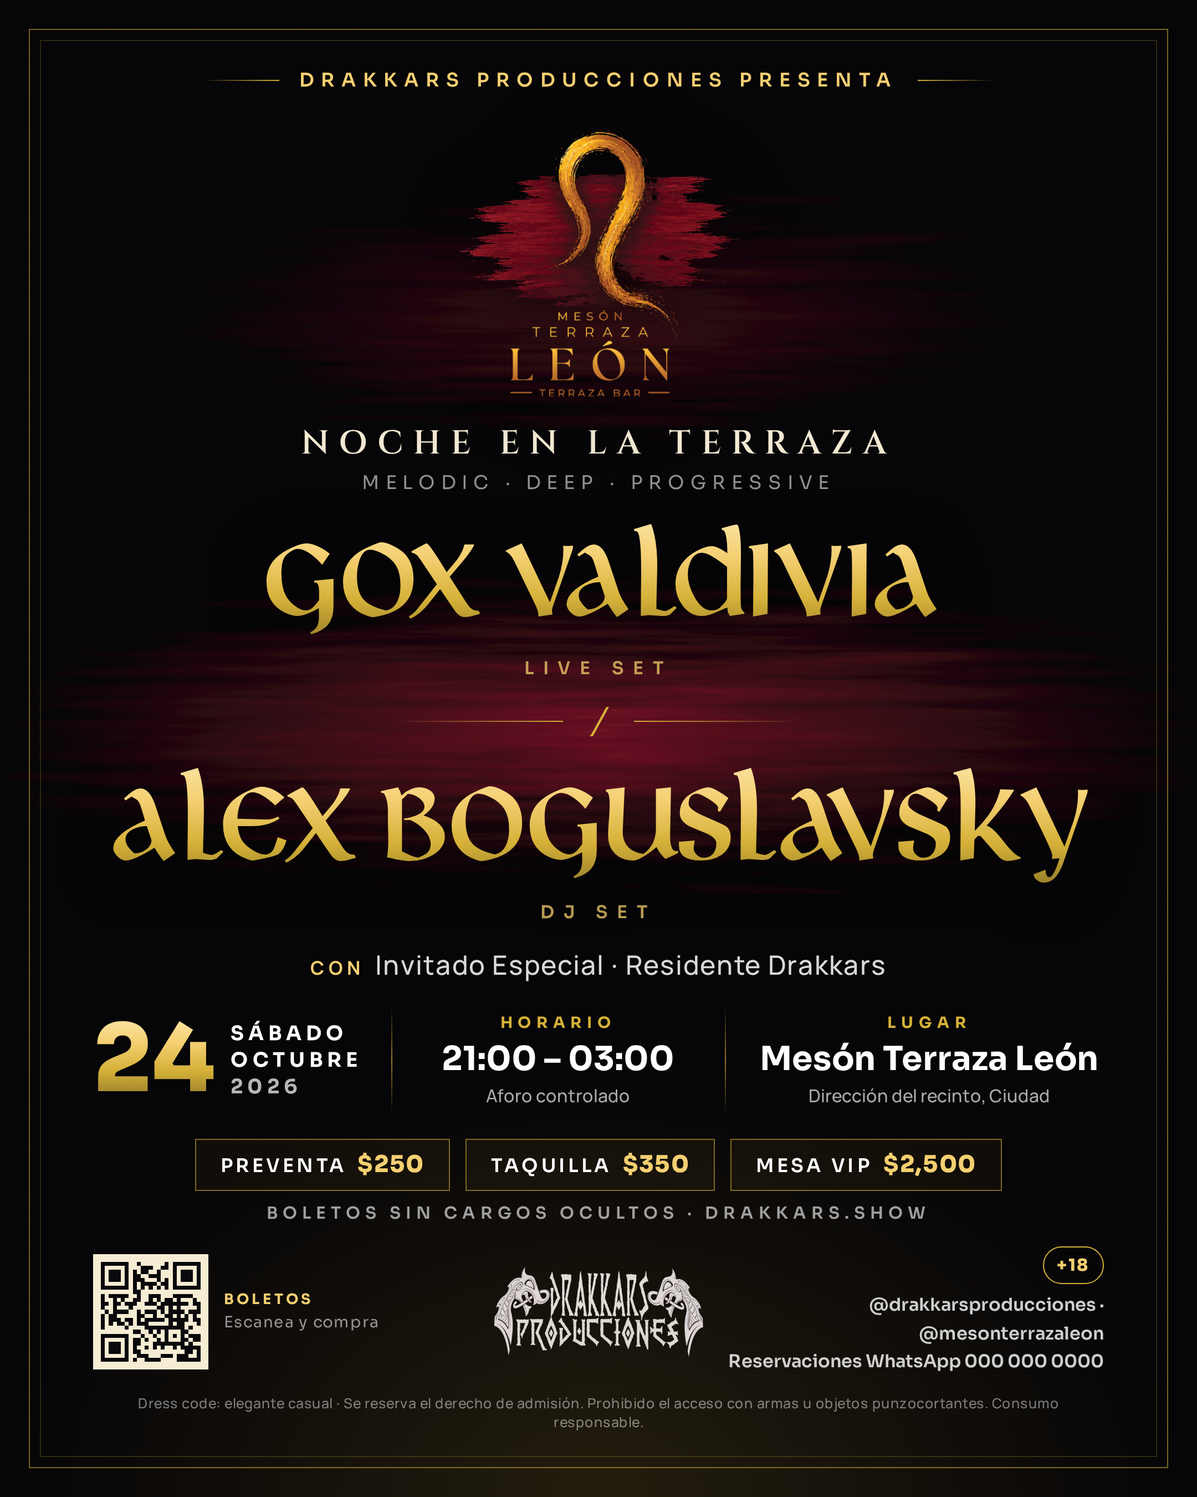
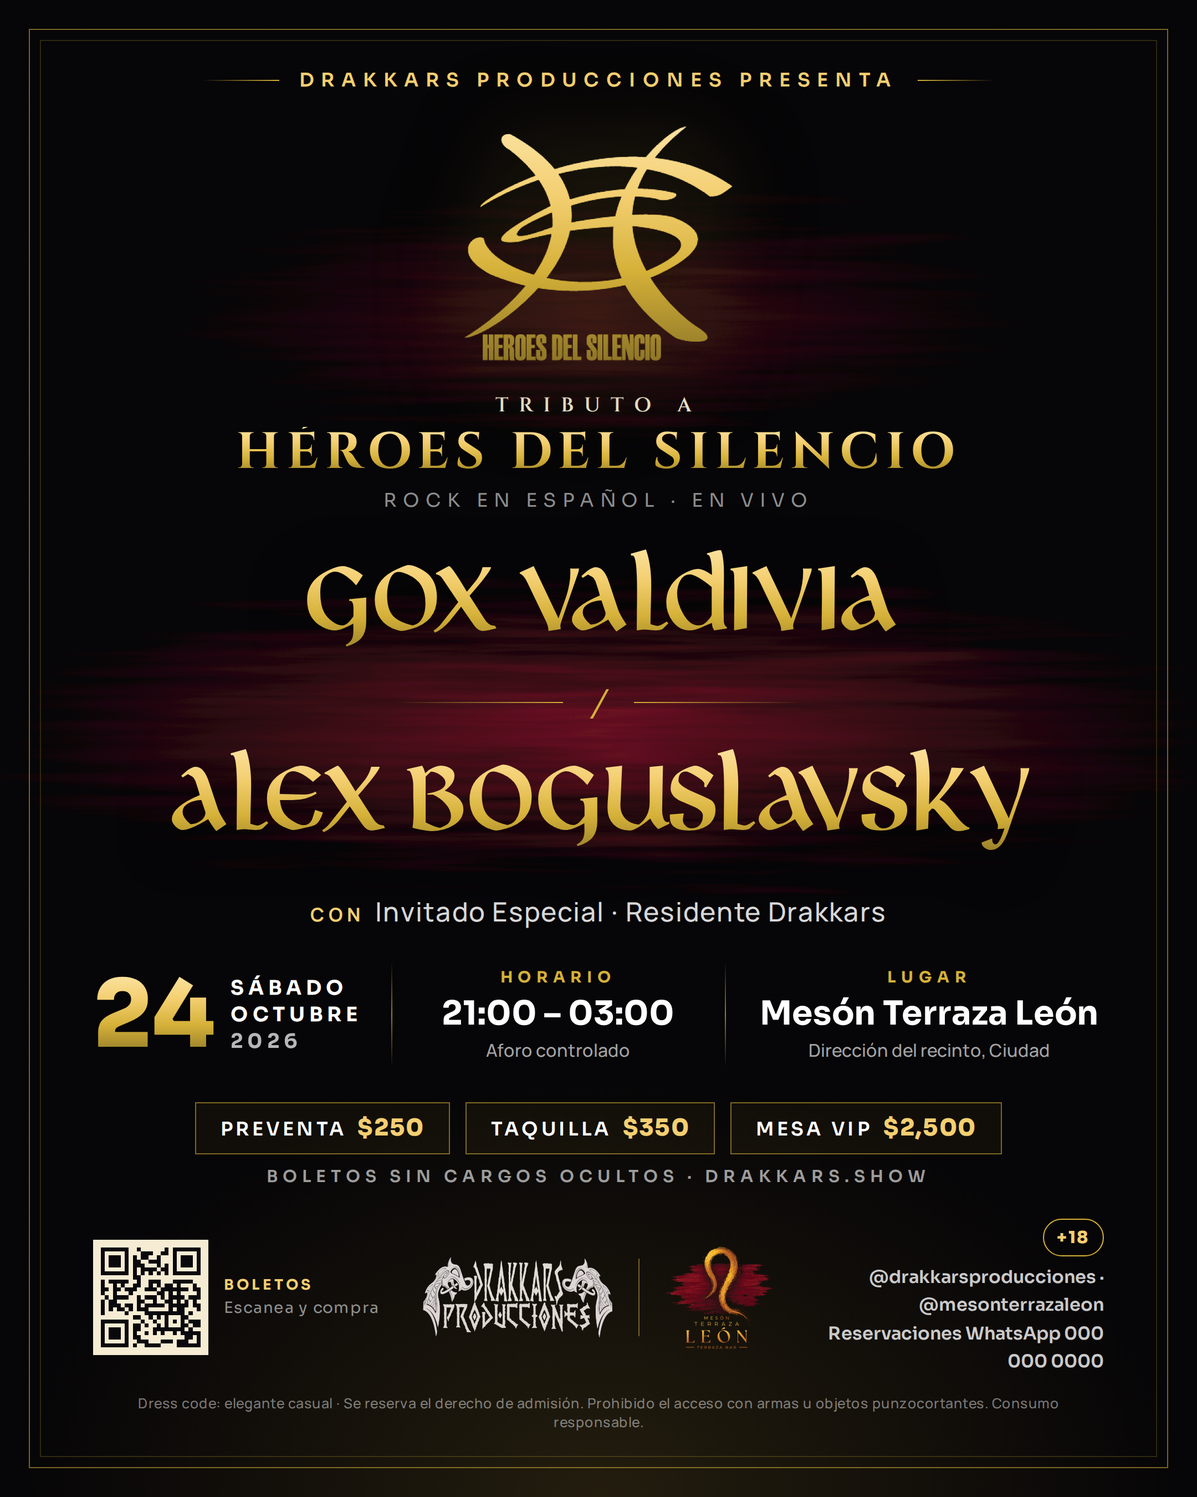
Flyers: add Tributo a Héroes del Silencio branding to all 5 designs
Adds kicker/title/eventLogo fields to event.js. The HdS logo is keyed
out of its baked-in checkerboard and painted in the site gold via canvas,
featured in every layout; Mesón logo moves to co-branding where needed.
Mockups re-rendered.

Claude-Session: https://claude.ai/code/session_01FHbxkynBZxSofdkjbFxcNF

diff --git a/flyers/flyer.html b/flyers/flyer.html
@@ -74,6 +74,8 @@
   .qr svg { display: block; width: 100%; height: 100%; }
   .muted { opacity: .7; }
   .hide { display: none !important; }
+  /* Logo del concepto (eventLogo), repintado con el degradado dorado en un canvas */
+  .mark { display: inline-block; vertical-align: middle; width: auto; }
 
   /* ===================================================== */
   /* 1 · ORO Y VINO — clásico centrado, negro + oro + vino */
@@ -89,8 +91,13 @@
   .v1 .presenter { display: flex; align-items: center; gap: 18px; font: 600 17px/1 var(--sub); letter-spacing: .38em; text-transform: uppercase; color: var(--gold-bright); }
   .v1 .presenter i { width: 70px; height: 1px; background: linear-gradient(90deg, transparent, var(--gold)); }
   .v1 .presenter i:last-child { transform: scaleX(-1); }
-  .v1 .venue-logo { height: 250px; margin-top: 8px; filter: drop-shadow(0 10px 30px rgba(0,0,0,.6)); }
-  .v1 .title { font: 600 30px/1 var(--serif); letter-spacing: .3em; text-transform: uppercase; color: #f3e9d2; }
+  .v1 .hero { filter: drop-shadow(0 10px 30px rgba(0,0,0,.7)) drop-shadow(0 0 40px rgba(212,175,55,.25)); }
+  .v1 .hero .mark { height: 215px; }
+  .v1 .kicker { font: 600 18px/1 var(--serif); letter-spacing: .5em; text-transform: uppercase; color: #f3e9d2; margin-bottom: 10px; }
+  .v1 .title { font: 700 46px/1 var(--serif); letter-spacing: .12em; text-transform: uppercase; }
+  .v1 .cobrand { display: flex; align-items: center; gap: 22px; }
+  .v1 .cobrand i { width: 1px; height: 70px; background: rgba(212,175,55,.5); }
+  .v1 .cobrand .venue-logo { height: 96px; }
   .v1 .subtitle { margin-top: 12px; font: 500 17px/1 var(--sub); letter-spacing: .32em; text-transform: uppercase; color: rgba(255,255,255,.55); }
   .v1 .names { width: 100%; }
   .v1 .name { font: 400 118px/1 var(--display); letter-spacing: .01em; filter: drop-shadow(0 6px 24px rgba(0,0,0,.7)); }
@@ -117,12 +124,12 @@
   .v1 .qr { width: 104px; height: 104px; padding: 7px; background: #f6ecd2; }
   .v1 .qrlabel { font: 700 13px/1.45 var(--sub); letter-spacing: .2em; text-transform: uppercase; color: var(--gold-bright); }
   .v1 .qrlabel span { display: block; color: rgba(255,255,255,.55); font-weight: 500; letter-spacing: .06em; text-transform: none; font-size: 14px; }
-  .v1 .brand { height: 84px; opacity: .95; }
+  .v1 .brand { height: 76px; opacity: .95; }
   .v1 .social { text-align: right; font: 600 16px/1.6 var(--sub); color: rgba(255,255,255,.8); }
   .v1 .social .age { display: inline-block; margin-bottom: 6px; border: 1.5px solid var(--gold); color: var(--gold-bright); border-radius: 999px; padding: 4px 12px; font-weight: 800; font-size: 15px; letter-spacing: .1em; }
   .v1 .fine { margin-top: 16px; font: 500 12.5px/1.4 var(--body); color: rgba(255,255,255,.45); letter-spacing: .02em; max-width: 860px; }
   .v1.story .content { padding: 150px 84px 150px; }
-  .v1.story .venue-logo { height: 330px; }
+  .v1.story .hero .mark { height: 300px; }
   .v1.story .name { font-size: 132px; }
 
   /* ===================================================== */
@@ -150,7 +157,13 @@
   .v2 .top .venue img { height: 112px; }
   .v2 .pill { align-self: flex-start; display: inline-flex; align-items: center; gap: 12px; border: 1px solid rgba(212,175,55,.35); background: rgba(212,175,55,.07); border-radius: 999px; padding: 12px 22px; font: 700 16px/1 var(--sub); letter-spacing: .24em; text-transform: uppercase; color: var(--gold-bright); }
   .v2 .pill i { width: 9px; height: 9px; border-radius: 50%; background: var(--magenta); box-shadow: 0 0 14px var(--magenta); }
-  .v2 .title { margin-top: 22px; font: 400 64px/1 var(--display); }
+  .v2 .watermark { position: absolute; right: -90px; top: 250px; z-index: 1; opacity: .13; }
+  .v2 .watermark .mark { height: 700px; }
+  .v2 .titlerow { margin-top: 24px; display: flex; align-items: center; gap: 24px; }
+  .v2 .titlerow .mark { height: 128px; flex: none; filter: drop-shadow(0 0 20px rgba(212,175,55,.35)); }
+  .v2 .titlerow > div:last-child { flex: 1; min-width: 0; }
+  .v2 .kicker { font: 700 16px/1 var(--sub); letter-spacing: .4em; text-transform: uppercase; color: rgba(255,255,255,.75); margin-bottom: 8px; }
+  .v2 .title { font: 400 64px/1.05 var(--display); }
   .v2 .subtitle { margin-top: 10px; font: 500 18px/1 var(--sub); letter-spacing: .3em; text-transform: uppercase; color: rgba(255,255,255,.55); }
   .v2 .names { width: 100%; }
   .v2 .row { display: flex; align-items: flex-end; gap: 18px; }
@@ -183,6 +196,7 @@
   .v2.story .name { font-size: 128px; }
   .v2.story .ring { top: 360px; }
   .v2.story .ring.b { top: 470px; }
+  .v2.story .watermark { top: 420px; }
 
   /* ===================================================== */
   /* 3 · DÚO — split con foto de cada artista              */
@@ -204,12 +218,14 @@
   .v3 .panel .tag { font: 700 14px/1 var(--sub); letter-spacing: .4em; text-transform: uppercase; color: var(--gold-bright); margin-bottom: 12px; }
   .v3 .panel .name { font: 400 78px/1 var(--display); }
   .v3 .divider { position: absolute; top: 0; height: 64%; left: 50%; width: 2px; transform: translateX(-50%); background: linear-gradient(180deg, transparent, var(--gold) 25%, var(--gold) 75%, transparent); z-index: 6; }
-  .v3 .sepbadge { position: absolute; left: 50%; top: 42%; transform: translate(-50%, -50%); z-index: 7; width: 92px; height: 92px; border-radius: 50%; background: var(--obsidian); border: 2px solid var(--gold); display: grid; place-items: center; font: 800 30px/1 var(--sub); color: var(--gold-bright); box-shadow: 0 0 40px -6px rgba(212,175,55,.7); }
+  .v3 .sepbadge { position: absolute; left: 50%; top: 42%; transform: translate(-50%, -50%); z-index: 7; width: 176px; height: 176px; border-radius: 50%; background: radial-gradient(circle, #1a1320, var(--obsidian)); border: 2px solid var(--gold); display: grid; place-items: center; font: 800 30px/1 var(--sub); color: var(--gold-bright); box-shadow: 0 0 40px -6px rgba(212,175,55,.7); }
   .v3 .topbar { position: absolute; top: 40px; left: 0; right: 0; z-index: 8; text-align: center; }
   .v3 .topbar img { height: 76px; filter: drop-shadow(0 4px 20px rgba(0,0,0,.8)); }
   .v3 .topbar div { margin-top: 8px; font: 600 14px/1 var(--sub); letter-spacing: .44em; text-transform: uppercase; color: rgba(255,255,255,.85); text-shadow: 0 2px 10px #000; }
   .v3 .lower { position: absolute; left: 0; right: 0; bottom: 0; height: 36%; z-index: 5; padding: 6px 56px 44px; display: flex; flex-direction: column; justify-content: space-between; }
-  .v3 .title { text-align: center; font: 600 30px/1 var(--serif); letter-spacing: .3em; text-transform: uppercase; }
+  .v3 .sepbadge .mark { height: 104px; }
+  .v3 .title { text-align: center; font: 700 34px/1 var(--serif); letter-spacing: .14em; text-transform: uppercase; }
+  .v3 .title .fit { display: inline-block; }
   .v3 .title small { display: block; margin-top: 10px; font: 500 15px/1 var(--sub); letter-spacing: .34em; color: rgba(255,255,255,.55); }
   .v3 .support { text-align: center; margin-top: 12px; font: 500 20px/1.3 var(--body); color: rgba(255,255,255,.8); }
   .v3 .support b { color: var(--gold); font: 700 13px/1 var(--sub); letter-spacing: .3em; margin-right: 10px; }
@@ -248,18 +264,21 @@
   .v4 .top img { height: 58px; }
   .v4 .top .meta { font: 700 14px/1.5 var(--sub); letter-spacing: .3em; text-transform: uppercase; color: rgba(255,255,255,.7); text-align: right; }
   .v4 .top .meta span { color: var(--gold-bright); }
-  .v4 .kicker { margin-top: 30px; display: flex; align-items: baseline; gap: 18px; }
+  .v4 .kicker { margin-top: 24px; display: flex; align-items: center; gap: 22px; }
+  .v4 .kicker .mark { height: 104px; flex: none; }
+  .v4 .kicker .k2 { font: 700 14px/1 var(--sub); letter-spacing: .4em; text-transform: uppercase; color: rgba(255,255,255,.7); margin-bottom: 8px; }
+  .v4 .kicker .s { display: block; margin-top: 10px; }
   .v4 .kicker .no { font: 800 15px/1 var(--sub); letter-spacing: .3em; color: var(--gold); }
-  .v4 .kicker .t { font: 400 44px/1 var(--display); }
+  .v4 .kicker .t { font: 400 52px/1 var(--display); }
   .v4 .kicker .s { font: 500 15px/1 var(--sub); letter-spacing: .28em; text-transform: uppercase; color: rgba(255,255,255,.55); }
-  .v4 .names { margin-top: 20px; }
+  .v4 .names { margin-top: 14px; }
   .v4 .name { font: 800 150px/.86 var(--sub); letter-spacing: -.05em; text-transform: uppercase; }
   .v4 .nblock:nth-child(3) .name { background: var(--gold-text); -webkit-background-clip: text; background-clip: text; color: transparent; }
   .v4 .nmeta { display: flex; justify-content: space-between; margin-top: 12px; font: 600 14px/1 var(--sub); letter-spacing: .34em; text-transform: uppercase; color: rgba(255,255,255,.6); }
   .v4 .nmeta span:last-child { color: var(--gold-bright); }
   .v4 .sep { display: flex; align-items: center; gap: 18px; margin: 20px 0; font: 700 22px/1 var(--sub); color: var(--gold); }
   .v4 .sep i { flex: 1; height: 1px; background: rgba(212,175,55,.5); }
-  .v4 .table { margin-top: 26px; display: grid; grid-template-columns: 1fr 1fr; column-gap: 40px; }
+  .v4 .table { margin-top: 16px; display: grid; grid-template-columns: 1fr 1fr; column-gap: 40px; }
   .v4 .cell { border-top: 1px solid rgba(255,255,255,.18); padding: 14px 0 16px; }
   .v4 .k { font: 700 12.5px/1 var(--sub); letter-spacing: .34em; text-transform: uppercase; color: var(--gold); margin-bottom: 9px; }
   .v4 .val { font: 700 25px/1.15 var(--sub); }
@@ -300,8 +319,12 @@
   .v5 .content { padding: 74px 96px 66px; align-items: center; text-align: center; justify-content: space-between; }
   .v5 .brand { height: 62px; }
   .v5 .presenter { margin-top: 10px; font: 600 14px/1 var(--serif); letter-spacing: .5em; text-transform: uppercase; color: rgba(244,206,110,.85); }
-  .v5 .venue-logo { height: 270px; filter: drop-shadow(0 10px 40px rgba(0,0,0,.55)); }
-  .v5 .title { font: 600 24px/1 var(--serif); letter-spacing: .42em; text-transform: uppercase; color: #f3e1b8; }
+  .v5 .hero { filter: drop-shadow(0 10px 40px rgba(0,0,0,.55)) drop-shadow(0 0 30px rgba(244,206,110,.25)); }
+  .v5 .hero .mark { height: 230px; }
+  .v5 .kicker { font: 600 20px/1 var(--serif); letter-spacing: .5em; text-transform: uppercase; color: #f3e1b8; margin-bottom: 10px; }
+  .v5 .title { font: 700 44px/1 var(--serif); letter-spacing: .14em; text-transform: uppercase; }
+  .v5 .foot .l { display: flex; align-items: center; gap: 16px; }
+  .v5 .foot .l img { height: 104px; flex: none; }
   .v5 .names { width: 100%; }
   .v5 .name { font: 700 98px/1 var(--serif); letter-spacing: .04em; text-transform: uppercase; filter: drop-shadow(0 4px 18px rgba(0,0,0,.6)); }
   .v5 .tag { margin-top: 8px; font: 600 14px/1 var(--sub); letter-spacing: .5em; text-transform: uppercase; color: rgba(255,255,255,.6); }
@@ -324,7 +347,7 @@
   .v5 .qr { width: 108px; height: 108px; padding: 7px; background: #f6ecd2; outline: 1.5px solid var(--gold); outline-offset: 5px; }
   .v5 .fine { margin-top: 18px; font: 500 12px/1.4 var(--body); color: rgba(255,255,255,.45); max-width: 820px; }
   .v5.story .content { padding: 150px 96px 150px; }
-  .v5.story .venue-logo { height: 360px; }
+  .v5.story .hero .mark { height: 320px; }
   .v5.story .name { font-size: 108px; }
 </style>
 </head>
@@ -358,6 +381,32 @@
   const supportTxt = (E.support || []).filter(has).map(esc).join(" · ");
   const LOGO_D = "assets/drakkars-logo.png";
   const LOGO_M = "assets/meson-terraza-leon.png";
+  const fullTitle = [E.kicker, E.title].filter(has).map(esc).join(" ");
+  const mark = (cls = "") => has(E.eventLogo)
+    ? `<canvas class="mark ${cls}" width="10" height="10" role="img" aria-label="${fullTitle}"></canvas>`
+    : "";
+  // Pinta cada .mark: silueta del logo (canal alfa) rellena con el oro del sitio
+  function paintMarks() {
+    const els = [...document.querySelectorAll("canvas.mark")];
+    if (!els.length) return Promise.resolve();
+    return new Promise((resolve) => {
+      const img = new Image();
+      img.onload = () => {
+        els.forEach((c) => {
+          c.width = img.naturalWidth; c.height = img.naturalHeight;
+          const x = c.getContext("2d");
+          x.drawImage(img, 0, 0);
+          x.globalCompositeOperation = "source-in";
+          const g = x.createLinearGradient(0, 0, 0, c.height);
+          g.addColorStop(0, "#fbe3a0"); g.addColorStop(.3, "#f4ce6e"); g.addColorStop(.62, "#d4af37"); g.addColorStop(1, "#8a7226");
+          x.fillStyle = g; x.fillRect(0, 0, c.width, c.height);
+        });
+        resolve();
+      };
+      img.onerror = resolve;
+      img.src = E.eventLogo;
+    });
+  }
 
   function qr(dark = "#08070b") {
     if (!E.showQr || !has(E.ticketUrl) || typeof qrcode === "undefined") return "";
@@ -387,15 +436,16 @@
     <div class="frame"></div>
     <div class="content">
       ${opt(has(E.presenter), `<div class="presenter"><i></i>${esc(E.presenter)}<i></i></div>`)}
-      <img class="venue-logo" src="${LOGO_M}" alt="${esc(E.venue)}">
+      <div class="hero">${mark()}</div>
       <div>
-        ${opt(has(E.title), `<div class="title">${esc(E.title)}</div>`)}
+        ${opt(has(E.kicker), `<div class="kicker">${esc(E.kicker)}</div>`)}
+        ${opt(has(E.title), `<div class="title gold-text">${esc(E.title)}</div>`)}
         ${opt(has(E.subtitle), `<div class="subtitle">${esc(E.subtitle)}</div>`)}
       </div>
       <div class="names">
         ${H.map((h, i) => `
           ${opt(i > 0, `<div class="sep"><i></i>${sepText}<i></i></div>`)}
-          <div class="name gold-text fit" data-max="118">${esc(h.name)}</div>
+          <div class="name gold-text fit" data-max="${story ? 132 : 104}">${esc(h.name)}</div>
           ${opt(has(h.tag), `<div class="tag">${esc(h.tag)}</div>`)}`).join("")}
       </div>
       ${opt(has(supportTxt), `<div class="support"><b>CON</b>${supportTxt}</div>`)}
@@ -413,7 +463,7 @@
       <div style="width:100%">
         <div class="foot">
           <div class="qrwrap">${qr()}${opt(has(qr()), `<div class="qrlabel">Boletos<span>Escanea y compra</span></div>`)}</div>
-          <img class="brand" src="${LOGO_D}" alt="Drakkars Producciones">
+          <div class="cobrand"><img class="brand" src="${LOGO_D}" alt="Drakkars Producciones"><i></i><img class="venue-logo" src="${LOGO_M}" alt="${esc(E.venue)}"></div>
           <div class="social">${opt(has(E.age), `<span class="age">${esc(E.age)}</span><br>`)}${socials()}<br>${esc(E.reservations)}</div>
         </div>
         <div class="fine" style="margin-inline:auto">${[E.dressCode, E.finePrint].filter(has).map(esc).join(" · ")}</div>
@@ -424,6 +474,7 @@
     <div class="layer aurora"></div>
     <div class="layer gridlines"></div>
     <div class="ring"></div><div class="ring b"></div>
+    <div class="watermark">${mark()}</div>
     <div class="content">
       <div>
         <div class="top">
@@ -433,8 +484,11 @@
       </div>
       <div>
         <div class="pill"><i></i>${dayShort} ${esc(E.day)} ${monShort} · ${esc(E.presenter)}</div>
-        ${opt(has(E.title), `<div class="title gold-text">${esc(E.title)}</div>`)}
-        ${opt(has(E.subtitle), `<div class="subtitle">${esc(E.subtitle)}</div>`)}
+        <div class="titlerow">${mark()}<div>
+          ${opt(has(E.kicker), `<div class="kicker">${esc(E.kicker)}</div>`)}
+          ${opt(has(E.title), `<div class="title gold-text fit" data-max="64">${esc(E.title)}</div>`)}
+          ${opt(has(E.subtitle), `<div class="subtitle">${esc(E.subtitle)}</div>`)}
+        </div></div>
       </div>
       <div class="names">
         ${H.map((h, i) => `
@@ -479,11 +533,11 @@
     return `
       <div class="panels">${pair.map(panel).join("")}</div>
       <div class="divider"></div>
-      <div class="sepbadge">${sepText}</div>
+      <div class="sepbadge">${mark() || sepText}</div>
       <div class="topbar"><img src="${LOGO_D}" alt="Drakkars Producciones"><div>${esc(E.presenter)}</div></div>
       <div class="lower">
         <div>
-          ${opt(has(E.title), `<div class="title gold-text">${esc(E.title)}<small>${esc(E.subtitle)}</small></div>`)}
+          ${opt(has(fullTitle), `<div class="title"><span class="gold-text fit" data-max="34">${fullTitle}</span><small>${esc(E.subtitle)}</small></div>`)}
           ${opt(has(supportTxt), `<div class="support"><b>CON</b>${supportTxt}</div>`)}
         </div>
         <div class="grid">
@@ -504,7 +558,7 @@
       const words = esc(h.name).split(" ");
       const lines = words.length > 1 ? [words[0], words.slice(1).join(" ")] : words;
       return `${opt(i > 0, `<div class="sep"><i></i>${sepText}<i></i></div>`)}
-        <div class="nblock">${lines.map((l) => `<div class="name fit" data-max="${story ? 164 : 150}">${l}</div>`).join("")}
+        <div class="nblock">${lines.map((l) => `<div class="name fit" data-max="${story ? 164 : 132}">${l}</div>`).join("")}
         <div class="nmeta"><span>${String(i + 1).padStart(2, "0")} — Headliner</span><span>${esc(h.tag)}</span></div></div>`;
     }).join("");
     return `
@@ -516,7 +570,7 @@
           <img src="${LOGO_D}" alt="Drakkars Producciones">
           <div class="meta">${esc(E.presenter).replace(/ presenta$/i, "")}<br><span>${dayShort} · ${esc(E.day)} · ${monShort} · ${esc(E.year)}</span></div>
         </div>
-        <div class="kicker">${opt(has(E.title), `<div class="t gold-text">${esc(E.title)}</div>`)}<div class="s">${esc(E.subtitle)}</div></div>
+        <div class="kicker">${mark()}<div>${opt(has(E.kicker), `<div class="k2">${esc(E.kicker)}</div>`)}${opt(has(E.title), `<div class="t gold-text">${esc(E.title)}</div>`)}<div class="s">${esc(E.subtitle)}</div></div></div>
         <div class="names">${blocks}</div>
         <div class="table">
           <div class="cell"><div class="k">Fecha</div><div class="val">${esc(E.dayName)} ${esc(E.day)} de ${esc(E.month)}<small>Puertas ${hours} hrs</small></div></div>
@@ -557,12 +611,15 @@
       </svg></div>
       <div class="content">
         <div><img class="brand" src="${LOGO_D}" alt="Drakkars Producciones"><div class="presenter">presenta</div></div>
-        <img class="venue-logo" src="${LOGO_M}" alt="${esc(E.venue)}">
-        ${opt(has(E.title), `<div class="title">${esc(E.title)}</div>`)}
+        <div class="hero">${mark()}</div>
+        <div>
+          ${opt(has(E.kicker), `<div class="kicker">${esc(E.kicker)}</div>`)}
+          ${opt(has(E.title), `<div class="title gold-text">${esc(E.title)}</div>`)}
+        </div>
         <div class="names">
           ${H.map((h, i) => `
             ${opt(i > 0, `<div class="sep"><i></i><em></em>${sepText}<em></em><i></i></div>`)}
-            <div class="name gold-text fit" data-max="${story ? 108 : 98}">${esc(h.name)}</div>
+            <div class="name gold-text fit" data-max="${story ? 108 : 88}">${esc(h.name)}</div>
             ${opt(has(h.tag), `<div class="tag">${esc(h.tag)}</div>`)}`).join("")}
         </div>
         ${opt(has(supportTxt), `<div class="support">con ${supportTxt}</div>`)}
@@ -574,7 +631,7 @@
         <div class="tickets">${tickets((t) => `<div>${esc(t.label)}<b>${esc(t.price)}</b></div>`)}</div>
         <div style="width:100%">
           <div class="foot">
-            <div class="l"><b>${esc(E.venue)}</b><br>${esc(E.address)}<br>${esc(E.reservations)}</div>
+            <div class="l"><img src="${LOGO_M}" alt=""><div><b>${esc(E.venue)}</b><br>${esc(E.address)}<br>${esc(E.reservations)}</div></div>
             ${qr()}
             <div class="r"><b>${esc(E.age)}</b> · ${esc(E.capacity)}<br>${socials()}<br>${esc(E.website)}</div>
           </div>
@@ -601,7 +658,7 @@
       n.style.display = "";
     });
   }
-  document.fonts.ready.then(() => {
+  Promise.all([document.fonts.ready, paintMarks()]).then(() => {
     fitAll();
     const imgs = [...document.images].map((i) => (i.complete ? null : new Promise((r) => (i.onload = i.onerror = r))));
     Promise.all(imgs).then(() => (window.FLYER_READY = true));

diff --git a/flyers/event.js b/flyers/event.js
@@ -12,16 +12,20 @@ window.EVENT = {
   // Línea superior ("presenta")
   presenter: "Drakkars Producciones presenta",
 
-  // Nombre / concepto de la noche (opcional)
-  title: "Noche en la Terraza",
-  subtitle: "Melodic · Deep · Progressive",
+  // Nombre / concepto de la noche. `kicker` va arriba del título en
+  // pequeño ("Tributo a"); `eventLogo` es el logo del concepto o banda
+  // (PNG con fondo transparente; se pinta en dorado automáticamente).
+  kicker: "Tributo a",
+  title: "Héroes del Silencio",
+  subtitle: "Rock en español · En vivo",
+  eventLogo: "assets/heroes-del-silencio.png",
 
   // Artistas principales — los que se destacan en grande.
   // `photo` es opcional: coloca la imagen en flyers/assets/artistas/
   // (PNG recortado sin fondo o JPG vertical, mínimo 1200 px de alto).
   headliners: [
-    { name: "Gox Valdivia", tag: "Live Set", photo: "" },
-    { name: "Alex Boguslavsky", tag: "DJ Set", photo: "" },
+    { name: "Gox Valdivia", tag: "", photo: "" },
+    { name: "Alex Boguslavsky", tag: "", photo: "" },
   ],
   // Separador entre headliners: "/", "B2B", "&", "×"
   headlinerSeparator: "/",
@@ -65,7 +69,7 @@ window.EVENT = {
   instagram: "@drakkarsproducciones",
   venueInstagram: "@mesonterrazaleon",
   website: "drakkars.show",
-  hashtag: "#DrakkarsNights",
+  hashtag: "#TributoHeroesDelSilencio",
 
   // Patrocinadores (texto; se muestran como fila al pie). Vacío = oculto.
   sponsors: [],

diff --git a/flyers/README.md b/flyers/README.md
@@ -15,6 +15,8 @@ Mockups listos en `mockups/` (PNG de 2160 px de ancho, post 4:5 y story 9:16).
 ## Cómo hacer un flyer nuevo
 
 1. **Edita `event.js`**: artistas, fecha, horario, precios, link de boletos, redes y letra chica.
+   `kicker` + `title` forman el nombre del evento (p. ej. "Tributo a" + "Héroes del Silencio") y `eventLogo`
+   es el logo del concepto o banda: cualquier PNG con fondo transparente se pinta en dorado automáticamente.
    Si dejas un campo vacío (`""` o `[]`), se oculta. Los nombres largos se ajustan solos al ancho.
 2. **Fotos de artistas** (se usan en el diseño 3): guárdalas en `assets/artistas/` y pon la ruta en
    `photo`, p. ej. `photo: "assets/artistas/gox.jpg"`. Mientras no haya foto, se muestra una silueta.
@@ -25,7 +27,7 @@ Mockups listos en `mockups/` (PNG de 2160 px de ancho, post 4:5 y story 9:16).
 
 ## Qué incluye cada flyer
 
-Línea "presenta", logos de Drakkars y del Mesón Terraza León, nombre de la noche y género, headliners con
+Línea "presenta", logos de Drakkars, del Mesón Terraza León y del concepto (Héroes del Silencio), nombre de la noche y género, headliners con
 tipo de set, artistas invitados, día, fecha y horario, recinto y dirección, precios por tipo de acceso,
 QR a la venta de boletos, "sin cargos ocultos", reservaciones, +18, dress code, aforo controlado, redes,
 hashtag y letra chica de admisión. Los formatos son post de Instagram 1080×1350 y story 1080×1920; los
